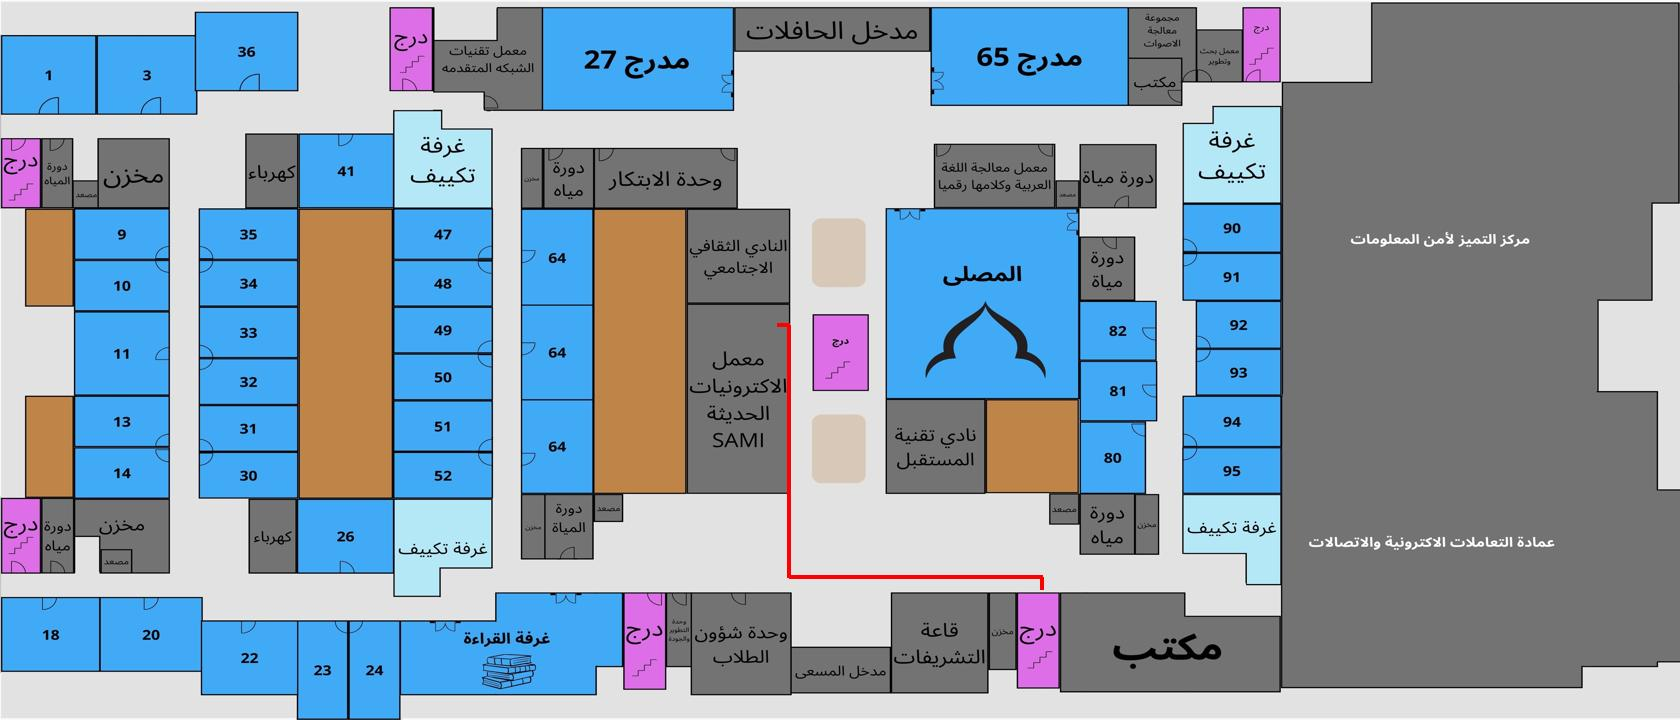
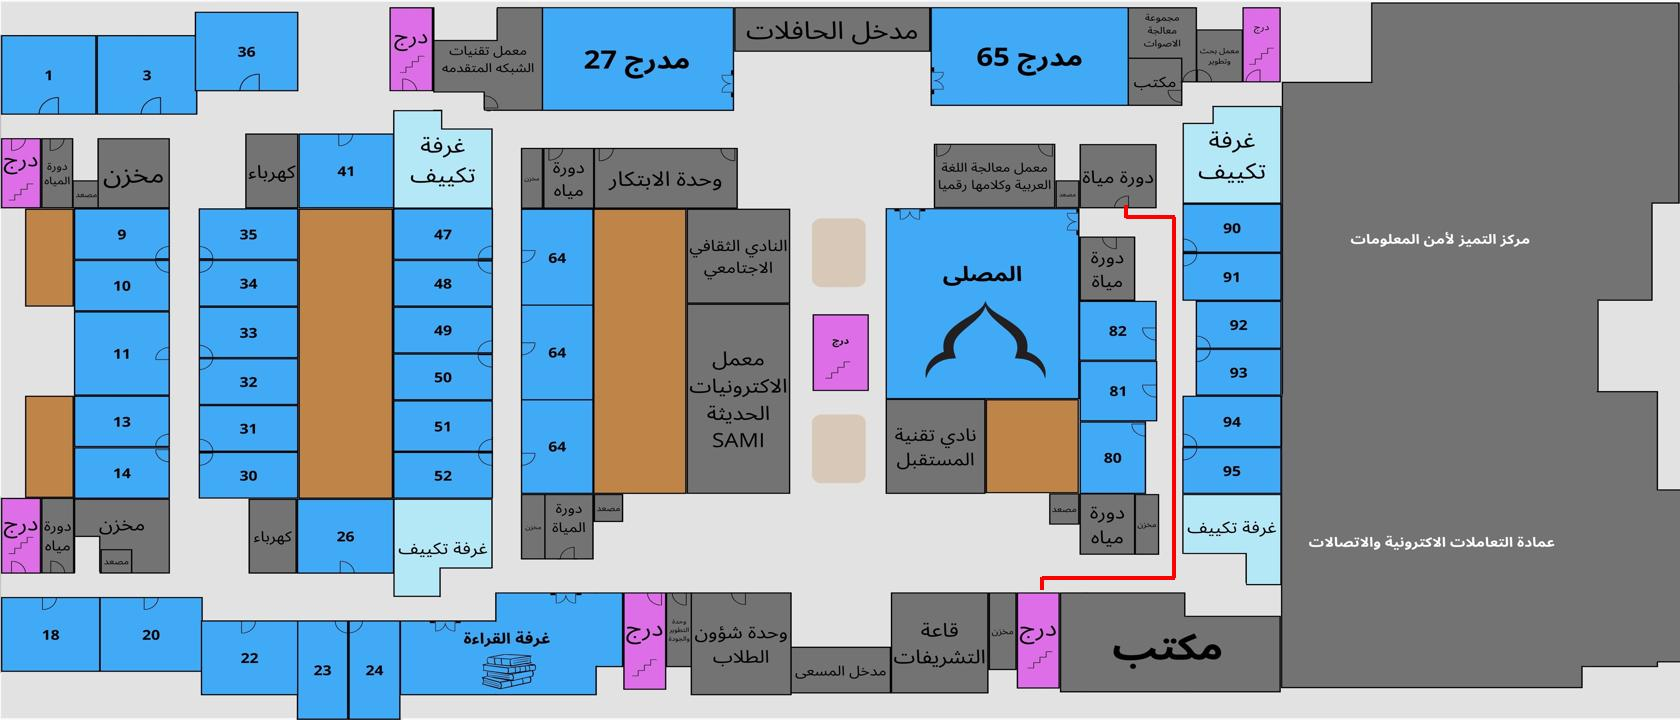
1.1

Changed region(s): [[0.4643, 0.275, 0.7119, 0.825]]

diff --git a/navApp/templates/base.html b/navApp/templates/base.html
@@ -115,7 +115,7 @@ input[type="text"]:focus {
 
 </style>
 <body>
-<a href="{% url 'gen' %}">generateQR</a>
+<!-- <a href="{% url 'gen' %}">generateQR</a> -->
     <div id="section1" >
         <div>
             <form method="post" action="{% url 'search_dij' %}">
@@ -148,6 +148,15 @@ input[type="text"]:focus {
 <div id="floor2" class="floor-map">
     <img class="image1" src="{% static 2ndFloor_url %}" alt="2nd Floor Map">
 </div>
+{% if messages %}
+    <script type="text/javascript">
+    window.addEventListener('load', function() {
+        {% for message in messages %}
+            alert("{{ message }}");
+        {% endfor %}
+    });
+    </script>
+{% endif %}
     <script src="https://code.jquery.com/jquery-3.6.0.js"></script>
   <script src="https://code.jquery.com/ui/1.13.2/jquery-ui.js"></script>
     <script>

diff --git a/navApp/views.py b/navApp/views.py
@@ -34,10 +34,10 @@ def autocomplete(request):
 
             # Split the string using the comma delimiter
             words = string.split(",")
-
             # Use list comprehension to remove leading/trailing whitespaces (optional)
             words = [word.strip() for word in words]
-
+            if len(words)>1:
+                words = [substring(words,request.GET.get('term'))]
             # Add the extracted words from this string to the all_words list
             all_names.extend(words)
         unique_list = set(all_names)
@@ -45,7 +45,16 @@ def autocomplete(request):
         all_names = [name for name in all_names if name != "null"]
         return JsonResponse(list(all_names), safe=False)  # Convert queryset to list for JSON response
     return render(request, "base.html")
-
+def substring(string_array, substring):
+  """
+  This function takes an array of strings and a substring as input.
+  It iterates through the array and returns the first string that contains the substring.
+  If no string contains the substring, it returns None.
+  """
+  for string in string_array:
+    if substring in string:
+      return string
+  return None
 '''
 # A utility function to find the vertex with
 # minimum distance value, from the set of vertices
@@ -148,13 +157,10 @@ def dijkstra(graph, src, goal):
     deGraph = json.loads(graph.graph)
     distances = [float('inf')] * n
     distances[src] = 0
-    print(deGraph[227])
     queue = [(0, src)]
     print(queue)
     while queue:
         current_dist, current_node = heapq.heappop(queue)
-        print("curr_dist= "+ str(current_dist))
-        print("curr_node= "+ str(current_node))
         # If the current node is the goal node, we have found the shortest path
         if current_node == goal:
             break
@@ -212,8 +218,19 @@ def search_dij(request):
 
         location = request.POST.get('location')
         destination = request.POST.get('destination')
-        source = Points.objects.get(alt__icontains=location)
-        goal = Points.objects.get(alt__icontains=destination)
+        source = Points.objects.filter(alt__icontains=location)
+
+        if len(source)>1:
+            messages.error(request, 'You can not select this location as start point, please scan nearist QR code or select other start point.')
+            return render(request, "base.html", context)
+        source = source.first()
+        goal = Points.objects.filter(alt__icontains=destination, floor=source.floor)
+        if len(goal) == 0:
+            goal = Points.objects.filter(alt__icontains=destination)
+        elif len(goal)>1:
+            goal = nearest_point(goal,source)
+        else:
+            goal = goal.first()
         UoD = source.floor - goal.floor
         floors_involved = [source.floor, goal.floor]
         if abs(UoD) >= 2:
@@ -244,7 +261,8 @@ def search_dij(request):
                 print(floor)
                 IDfactor = (floor * 1000) if floor != 0 else 9999
                 grphObj = graph.objects.get(floor=floor)
-                srcStair = nearest_stair(source)
+                points = Points.objects.filter(title="stair", floor=floor)
+                srcStair = nearest_point(points,source)
                 goalStair = Points.objects.filter(floor=goal.floor, pointX=srcStair.pointX, pointY=srcStair.pointY).first()
                 if floor == source.floor:
                     print(source.id % IDfactor)
@@ -283,15 +301,14 @@ def search_dij(request):
         buttons.update(context)
         return render(request, "base.html", buttons)
 
-def nearest_stair(point):
-    stairs = Points.objects.filter(title="stair", floor=point.floor)
+def nearest_point(points,point):
     min_distance = math.inf
     nearest_point = None
-    for stair in stairs:
-        distance = math.sqrt((stair.pointX - point.pointX) ** 2 + (stair.pointY - point.pointY) ** 2)
+    for pt in points:
+        distance = math.sqrt((pt.pointX - point.pointX) ** 2 + (pt.pointY - point.pointY) ** 2)
         if distance < min_distance:
             min_distance = distance
-            nearest_point = stair
+            nearest_point = pt
     return nearest_point
 '''
     # Create temporary file and write image data

diff --git a/PathIn/settings.py b/PathIn/settings.py
@@ -55,6 +55,7 @@ MIDDLEWARE = [
     'django.contrib.messages.middleware.MessageMiddleware',
     'django.middleware.clickjacking.XFrameOptionsMiddleware',
 ]
+MESSAGE_STORAGE = 'django.contrib.messages.storage.fallback.FallbackStorage'
 
 ROOT_URLCONF = 'PathIn.urls'
 
